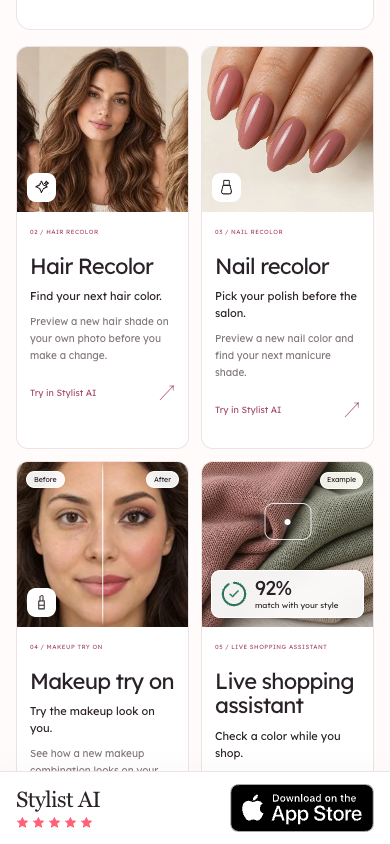
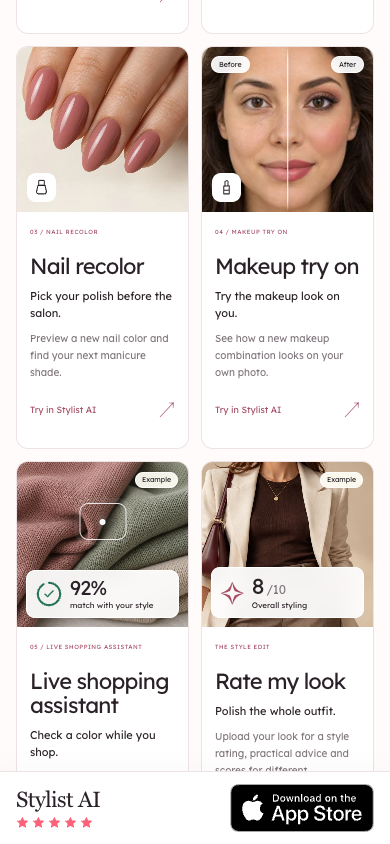
Use AI outfit imagery in a matching color-combos card and refine hero copy

diff --git a/stylist_ai/landing/v2/04-season-spectrum/index.html b/stylist_ai/landing/v2/04-season-spectrum/index.html
@@ -1,18 +1,3 @@
 <!doctype html><html lang="en"><head>
-<meta charset="utf-8"><meta name="viewport" content="width=device-width,initial-scale=1,viewport-fit=cover"><meta name="theme-color" content="#FFFBFA"><title>Find your color season — Stylist AI</title><meta name="description" content="Discover your color season and palette. Try hair and makeup looks, recolor nails, and take your palette shopping with Stylist AI for iPhone."><meta property="og:title" content="Your season. Your palette. Stylist AI."><meta property="og:description" content="Your Color Analysis, color combos, beauty tools, outfit advice & live shopping. Find your colors with Stylist AI."><meta property="og:type" content="website"><meta property="og:image" content="https://bestme.mobi/stylist_ai/landing/v2/assets/social-spectrum.jpg"><link rel="icon" href="../assets/icon.png"><link rel="stylesheet" href="../styles.css?v=2"><script src="../app.js?v=3" defer></script><link rel="stylesheet" href="./spectrum.css?v=6"></head>
-<body class="spectrum" data-variant="04-season-spectrum" id="top"><a class="skip" href="#main">Skip to content</a><header class="site-header container"><a class="brand" href="#top" aria-label="Stylist AI home"><img src="../assets/icon.png" width="28" height="28" alt=""><span>stylist <b>AI</b></span></a><span class="header-caption">COLOR ANALYSIS FOR iPHONE</span></header><main id="main"><section class="hero container" aria-label="Discover your color season"><div class="hero-intro"><h1>What’s your<br><em>color season?</em></h1><p>AI color analysis. Your season, personal palette, personal shopping advice.</p></div><div class="hero-proof"><div class="result-card"><div class="spectrum-pair"><div class="color-halo"><div class="face-photo"><img class="portrait" src="../assets/winter-model.jpg" width="834" height="1482" alt="Stylist AI ad model with subtle glowing facial landmark dots" fetchpriority="high"><img class="mesh" src="../assets/winter-landmarks.svg" width="834" height="1482" alt="" aria-hidden="true"></div></div><div class="season-result"><p class="micro">EXAMPLE COLOR SEASON</p><strong data-season-result>True Winter</strong><p class="traits"><span>Cool</span><span>Clear</span><span>High contrast</span></p></div></div><div class="palette hero-palette" data-first-palette aria-label="Sample True Winter color palette"><div class="color" style="--color:#F25A8D" title="Pink"><i></i></div><div class="color" style="--color:#9C1F50" title="Berry"><i></i></div><div class="color" style="--color:#7F3C7D" title="Orchid"><i></i></div><div class="color" style="--color:#4E1C60" title="Plum"><i></i></div><div class="color" style="--color:#17A59D" title="Teal"><i></i></div><div class="color" style="--color:#3AB3D1" title="Aqua"><i></i></div><div class="color" style="--color:#3C55A5" title="Cobalt"><i></i></div><div class="color" style="--color:#003A6E" title="Navy"><i></i></div></div><div class="season-tabs" role="group" aria-label="Preview example seasonal palettes"><button type="button" data-season="spring" aria-pressed="false">Spring</button><button type="button" data-season="summer" aria-pressed="false">Summer</button><button type="button" data-season="autumn" aria-pressed="false">Autumn</button><button type="button" data-season="winter" aria-pressed="true">Winter</button></div><span class="sample-disclaimer">Example palette. Find your own colors in the app.</span></div></div></section><nav class="feature-nav container" aria-label="Stylist AI features"><a href="#passport" aria-label="See Your Color Analysis"><svg viewBox="0 0 24 24" fill="none" stroke="currentColor" stroke-width="1.5" stroke-linecap="round" stroke-linejoin="round" aria-hidden="true"><rect x="5" y="3" width="14" height="18" rx="3"/><path d="M9 8h6M9 12h6M9 16h3"/></svg><span>Your Color Analysis</span></a><a href="#try-on" aria-label="See Hair Recolor"><svg viewBox="0 0 24 24" fill="none" stroke="currentColor" stroke-width="1.5" stroke-linecap="round" stroke-linejoin="round" aria-hidden="true"><path d="m12 3 2.6 5.4L20 11l-5.4 2.6L12 19l-2.6-5.4L4 11l5.4-2.6Z"/><path d="m19 3 1 2 2 1-2 1-1 2-1-2-2-1 2-1Z"/></svg><span>Hair Recolor</span></a><a href="#nails" aria-label="See Nail recolor"><svg viewBox="0 0 24 24" fill="none" stroke="currentColor" stroke-width="1.5" stroke-linecap="round" stroke-linejoin="round" aria-hidden="true"><rect x="8" y="2" width="8" height="7" rx="1"/><path d="M7 9h10l2 9a3 3 0 0 1-3 3H8a3 3 0 0 1-3-3Z"/></svg><span>Nail recolor</span></a><a href="#makeup" aria-label="See Makeup try on"><svg viewBox="0 0 24 24" fill="none" stroke="currentColor" stroke-width="1.5" stroke-linecap="round" stroke-linejoin="round" aria-hidden="true"><path d="M8 10h8v11H8zM10 10V4c0-1 4-3 4-1v7M8 16h8"/></svg><span>Makeup try on</span></a><a href="#shopping" aria-label="See Live shopping assistant"><svg viewBox="0 0 24 24" fill="none" stroke="currentColor" stroke-width="1.5" stroke-linecap="round" stroke-linejoin="round" aria-hidden="true"><path d="M5 8h14l1 13H4ZM9 8V6a3 3 0 0 1 6 0v2"/></svg><span>Live shopping assistant</span></a></nav><nav class="feature-shortcuts container" aria-label="More styling tools"><a href="#combos" aria-label="See Color combos"><svg viewBox="0 0 24 24" fill="none" stroke="currentColor" stroke-width="1.4" stroke-linecap="round" stroke-linejoin="round" aria-hidden="true"><rect x="3" y="5" width="8" height="14" rx="2"/><rect x="13" y="5" width="8" height="14" rx="2"/></svg><span>Color combos</span></a><a href="#rate-look" aria-label="See Rate my look"><svg viewBox="0 0 24 24" fill="none" stroke="currentColor" stroke-width="1.4" stroke-linecap="round" stroke-linejoin="round" aria-hidden="true"><path d="m12 3 2.8 5.8 6.4.9-4.6 4.5 1.1 6.4-5.7-3-5.7 3 1.1-6.4-4.6-4.5 6.4-.9Z"/></svg><span>Rate my look</span></a><a href="#outfit-match" aria-label="See Outfit match"><svg viewBox="0 0 24 24" fill="none" stroke="currentColor" stroke-width="1.4" stroke-linecap="round" stroke-linejoin="round" aria-hidden="true"><path d="m8 4 4 2 4-2 6 5-4 4-2-2v10H8V11l-2 2-4-4Z"/></svg><span>Outfit match</span></a></nav><section class="features container" id="features"><div class="section-heading"><span class="micro">YOUR COLORS, IN EVERYDAY LIFE.</span><h2>See what you can do.</h2></div><article id="passport" class="passport-feature" data-feature="passport"><div class="passport-feature-copy"><p class="number">01 / YOUR COLOR ANALYSIS</p><h3>Your Color Analysis</h3><p class="benefit">Your season. Your undertone. Your palette.</p><p>Keep your color profile close, from getting ready to choosing your next outfit.</p><ul><li>Your seasonal color type</li><li>Your personal palette</li><li>Color guidance for your look</li></ul></div><div class="passport-feature-art"><span class="micro">YOUR COLOR ANALYSIS · EXAMPLE</span><strong>True Winter</strong><div class="attribute-row"><span>Cool undertone</span><span>High contrast</span></div><div class="palette " aria-label="Sample True Winter color palette"><div class="color" style="--color:#F25A8D" title="Pink"><i></i><span>Pink</span></div><div class="color" style="--color:#9C1F50" title="Berry"><i></i><span>Berry</span></div><div class="color" style="--color:#7F3C7D" title="Orchid"><i></i><span>Orchid</span></div><div class="color" style="--color:#4E1C60" title="Plum"><i></i><span>Plum</span></div><div class="color" style="--color:#17A59D" title="Teal"><i></i><span>Teal</span></div><div class="color" style="--color:#3AB3D1" title="Aqua"><i></i><span>Aqua</span></div><div class="color" style="--color:#3C55A5" title="Cobalt"><i></i><span>Cobalt</span></div><div class="color" style="--color:#003A6E" title="Navy"><i></i><span>Navy</span></div></div></div></article><article class="combo-section combo-feature" id="combos" data-feature="combos" aria-labelledby="combo-title"><div class="combo-heading"><div><p class="micro">MAKE YOUR PALETTE WORK FOR YOU</p><h3 id="combo-title">Best color combos</h3></div><span class="combo-season">True Winter · examples</span></div><p class="combo-description">Discover colors that work together, with outfit pairings and tips on how to wear them.</p><div class="combo-grid"><a class="combo-card" href="https://apps.apple.com/app/id6739435502" target="_top" data-download data-placement="combo-1" aria-label="Try Blue + ice and see how to wear it in Stylist AI"><svg viewBox="0 0 180 280" class="combo-garments" aria-hidden="true">
-<ellipse cx="90" cy="267" rx="53" ry="5" fill="#27231f" opacity=".045"/>
-<g fill="#E9ECF8" stroke="#27231f33" stroke-width=".8"><path d="M64 119H116Q120 131 125 145L137 258L100 262L90 165L80 262L43 258L55 145Q60 131 64 119Z"/><path d="M64 119H116L119 131H61Z"/></g>
-<path d="M63 135L58 156L70 147M117 135L122 156L110 147M90 131V162M74 134L63 256M106 134L117 256M45 252L79 256M101 256L135 252M85 131V153Q89 156 93 153M71 120V130M109 120V130" fill="none" stroke="#27231f2e" stroke-width=".8"/>
-<g fill="#006DAF" stroke="#27231f33" stroke-width=".8"><path d="M72 24L55 29Q41 32 35 48L21 86Q17 99 27 105L40 109Q48 108 51 98L60 70Q63 94 66 103L63 120Q90 125 117 120L114 103Q117 94 120 70L129 98Q132 108 140 109L153 105Q163 99 159 86L145 48Q139 32 125 29L108 24Q106 48 90 50Q74 48 72 24Z"/><path d="M26 101L43 106L41 114L24 109ZM137 106L154 101L156 109L139 114Z"/></g>
-<path d="M72 24Q74 48 90 50Q106 48 108 24M55 34Q63 48 60 70M125 34Q117 48 120 70M44 48L32 94M136 48L148 94M69 83L76 114M111 83L104 114M65 116Q90 121 115 116" fill="none" stroke="#27231f2e" stroke-width=".8"/><circle cx="90" cy="125" r="1.4" fill="#27231f4d"/></svg><div class="combo-pair" aria-hidden="true"><i style="--shade:#006DAF"></i><i style="--shade:#E9ECF8"></i></div><h4>Blue + ice</h4><p class="combo-shades">Surf the Web<br>+ Icy White</p><span class="combo-action">How to wear it <span aria-hidden="true">↗</span></span></a><a class="combo-card" href="https://apps.apple.com/app/id6739435502" target="_top" data-download data-placement="combo-2" aria-label="Try Pink + slate and see how to wear it in Stylist AI"><svg viewBox="0 0 180 280" class="combo-garments" aria-hidden="true">
-<ellipse cx="90" cy="267" rx="53" ry="5" fill="#27231f" opacity=".045"/>
-<g fill="#2C2C2E" stroke="#27231f33" stroke-width=".8"><path d="M64 119H116Q120 131 125 145L137 258L100 262L90 165L80 262L43 258L55 145Q60 131 64 119Z"/><path d="M64 119H116L119 131H61Z"/></g>
-<path d="M63 135L58 156L70 147M117 135L122 156L110 147M90 131V162M74 134L63 256M106 134L117 256M45 252L79 256M101 256L135 252M85 131V153Q89 156 93 153M71 120V130M109 120V130" fill="none" stroke="#27231f2e" stroke-width=".8"/>
-<g fill="#F25A8D" stroke="#27231f33" stroke-width=".8"><path d="M72 24L55 29Q41 32 35 48L21 86Q17 99 27 105L40 109Q48 108 51 98L60 70Q63 94 66 103L63 120Q90 125 117 120L114 103Q117 94 120 70L129 98Q132 108 140 109L153 105Q163 99 159 86L145 48Q139 32 125 29L108 24Q106 48 90 50Q74 48 72 24Z"/><path d="M26 101L43 106L41 114L24 109ZM137 106L154 101L156 109L139 114Z"/></g>
-<path d="M72 24Q74 48 90 50Q106 48 108 24M55 34Q63 48 60 70M125 34Q117 48 120 70M44 48L32 94M136 48L148 94M69 83L76 114M111 83L104 114M65 116Q90 121 115 116" fill="none" stroke="#27231f2e" stroke-width=".8"/><circle cx="90" cy="125" r="1.4" fill="#27231f4d"/></svg><div class="combo-pair" aria-hidden="true"><i style="--shade:#F25A8D"></i><i style="--shade:#2C2C2E"></i></div><h4>Pink + slate</h4><p class="combo-shades">Strawberry Moon<br>+ Dark Slate</p><span class="combo-action">How to wear it <span aria-hidden="true">↗</span></span></a><a class="combo-card" href="https://apps.apple.com/app/id6739435502" target="_top" data-download data-placement="combo-3" aria-label="Try Lilac + violet and see how to wear it in Stylist AI"><svg viewBox="0 0 180 280" class="combo-garments" aria-hidden="true">
-<ellipse cx="90" cy="267" rx="53" ry="5" fill="#27231f" opacity=".045"/>
-<g fill="#4E1C60" stroke="#27231f33" stroke-width=".8"><path d="M64 119H116Q120 131 125 145L137 258L100 262L90 165L80 262L43 258L55 145Q60 131 64 119Z"/><path d="M64 119H116L119 131H61Z"/></g>
-<path d="M63 135L58 156L70 147M117 135L122 156L110 147M90 131V162M74 134L63 256M106 134L117 256M45 252L79 256M101 256L135 252M85 131V153Q89 156 93 153M71 120V130M109 120V130" fill="none" stroke="#27231f2e" stroke-width=".8"/>
-<g fill="#D6A8C8" stroke="#27231f33" stroke-width=".8"><path d="M72 24L55 29Q41 32 35 48L21 86Q17 99 27 105L40 109Q48 108 51 98L60 70Q63 94 66 103L63 120Q90 125 117 120L114 103Q117 94 120 70L129 98Q132 108 140 109L153 105Q163 99 159 86L145 48Q139 32 125 29L108 24Q106 48 90 50Q74 48 72 24Z"/><path d="M26 101L43 106L41 114L24 109ZM137 106L154 101L156 109L139 114Z"/></g>
-<path d="M72 24Q74 48 90 50Q106 48 108 24M55 34Q63 48 60 70M125 34Q117 48 120 70M44 48L32 94M136 48L148 94M69 83L76 114M111 83L104 114M65 116Q90 121 115 116" fill="none" stroke="#27231f2e" stroke-width=".8"/><circle cx="90" cy="125" r="1.4" fill="#27231f4d"/></svg><div class="combo-pair" aria-hidden="true"><i style="--shade:#D6A8C8"></i><i style="--shade:#4E1C60"></i></div><h4>Lilac + violet</h4><p class="combo-shades">Lilac Chiffon<br>+ Persian Jewel</p><span class="combo-action">How to wear it <span aria-hidden="true">↗</span></span></a></div></article><div class="feature-grid"><article class="feature-card" id="try-on" data-feature="try-on"><div class="feature-image"><img src="../assets/hair.webp" width="720" height="900" loading="lazy" alt="Hair Recolor example"><span class="feature-image-icon"><svg viewBox="0 0 24 24" fill="none" stroke="currentColor" stroke-width="1.5" stroke-linecap="round" stroke-linejoin="round" aria-hidden="true"><path d="m12 3 2.6 5.4L20 11l-5.4 2.6L12 19l-2.6-5.4L4 11l5.4-2.6Z"/><path d="m19 3 1 2 2 1-2 1-1 2-1-2-2-1 2-1Z"/></svg></span></div><div class="feature-copy"><p class="number">02 / HAIR RECOLOR</p><h3>Hair Recolor</h3><p class="benefit">Find your next hair color.</p><p>Preview a new hair shade on your own photo before you make a change.</p><a href="https://apps.apple.com/app/id6739435502" target="_top" data-download data-placement="try-on">Try in Stylist AI <span aria-hidden="true">↗</span></a></div></article><article class="feature-card" id="nails" data-feature="nails"><div class="feature-image"><img src="../assets/nails.webp" width="720" height="900" loading="lazy" alt="Nail recolor example"><span class="feature-image-icon"><svg viewBox="0 0 24 24" fill="none" stroke="currentColor" stroke-width="1.5" stroke-linecap="round" stroke-linejoin="round" aria-hidden="true"><rect x="8" y="2" width="8" height="7" rx="1"/><path d="M7 9h10l2 9a3 3 0 0 1-3 3H8a3 3 0 0 1-3-3Z"/></svg></span></div><div class="feature-copy"><p class="number">03 / NAIL RECOLOR</p><h3>Nail recolor</h3><p class="benefit">Pick your polish before the salon.</p><p>Preview a new nail color and find your next manicure shade.</p><a href="https://apps.apple.com/app/id6739435502" target="_top" data-download data-placement="nails">Try in Stylist AI <span aria-hidden="true">↗</span></a></div></article><article class="feature-card" id="makeup" data-feature="makeup"><div class="feature-image"><img src="../assets/makeup-try-on.webp" width="720" height="900" loading="lazy" alt="Before and after makeup try on example"><span class="feature-image-icon"><svg viewBox="0 0 24 24" fill="none" stroke="currentColor" stroke-width="1.5" stroke-linecap="round" stroke-linejoin="round" aria-hidden="true"><path d="M8 10h8v11H8zM10 10V4c0-1 4-3 4-1v7M8 16h8"/></svg></span><span class="makeup-divider" aria-hidden="true"></span><span class="makeup-label before">Before</span><span class="makeup-label after">After</span></div><div class="feature-copy"><p class="number">04 / MAKEUP TRY ON</p><h3>Makeup try on</h3><p class="benefit">Try the makeup look on you.</p><p>See how a new makeup combination looks on your own photo.</p><a href="https://apps.apple.com/app/id6739435502" target="_top" data-download data-placement="makeup">Try in Stylist AI <span aria-hidden="true">↗</span></a></div></article><article class="feature-card" id="shopping" data-feature="shopping"><div class="feature-image"><img src="../assets/shopping-fabric.jpg" width="720" height="900" loading="lazy" alt="Live shopping assistant example"><span class="shopping-scan" aria-hidden="true"><i></i></span><span class="art-example">Example</span><div class="match-overlay"><svg viewBox="0 0 40 40" aria-hidden="true"><circle cx="20" cy="20" r="16" fill="none" stroke="#e8efeb" stroke-width="3"/><circle cx="20" cy="20" r="16" fill="none" stroke="#28755c" stroke-width="3" stroke-linecap="round" stroke-dasharray="92 100" pathLength="100" transform="rotate(-90 20 20)"/><path d="m14 20 4 4 8-9" fill="none" stroke="#28755c" stroke-width="2" stroke-linecap="round" stroke-linejoin="round"/></svg><span><strong>92%</strong><small>match with your style</small></span></div></div><div class="feature-copy"><p class="number">05 / LIVE SHOPPING ASSISTANT</p><h3>Live shopping assistant</h3><p class="benefit">Check a color while you shop.</p><p>Point your camera at a shade and compare it with your personal palette.</p><a href="https://apps.apple.com/app/id6739435502" target="_top" data-download data-placement="shopping">Try in Stylist AI <span aria-hidden="true">↗</span></a></div></article><article class="feature-card" id="rate-look" data-feature="rate-look"><div class="feature-image"><img src="../assets/rate-look.jpg" loading="lazy" alt="Rate my look preview"><span class="art-example">Example</span><div class="look-rating"><span class="rating-star" aria-hidden="true">✧</span><span><strong>8<small>/10</small></strong><small>Overall styling</small></span></div></div><div class="feature-copy"><p class="number">THE STYLE EDIT</p><h3>Rate my look</h3><p class="benefit">Polish the whole outfit.</p><p>Upload your look for a style rating, practical advice and scores for different occasions.</p><a href="https://apps.apple.com/app/id6739435502" target="_top" data-download data-placement="rate-look">Try in Stylist AI <span aria-hidden="true">↗</span></a></div></article><article class="feature-card" id="outfit-match" data-feature="outfit-match"><div class="feature-image"><img src="../assets/outfit.webp" loading="lazy" alt="Will that outfit suit me? preview"><span class="art-example">Example</span><div class="match-overlay"><svg viewBox="0 0 40 40" aria-hidden="true"><circle cx="20" cy="20" r="16" fill="none" stroke="#e8efeb" stroke-width="3"/><circle cx="20" cy="20" r="16" fill="none" stroke="#28755c" stroke-width="3" stroke-linecap="round" stroke-dasharray="94 100" pathLength="100" transform="rotate(-90 20 20)"/><path d="m14 20 4 4 8-9" fill="none" stroke="#28755c" stroke-width="2" stroke-linecap="round" stroke-linejoin="round"/></svg><span><strong>94%</strong><small>you will shine with it</small></span></div></div><div class="feature-copy"><p class="number">OUTFIT MATCH</p><h3>Will that outfit suit me?</h3><p class="benefit">Check it before you buy it.</p><p>Upload an outfit photo to see how its colors work with your season and personal palette.</p><a href="https://apps.apple.com/app/id6739435502" target="_top" data-download data-placement="outfit-match">Try in Stylist AI <span aria-hidden="true">↗</span></a></div></article></div></section><section class="how container"><div><span class="micro">START WITH A SELFIE</span><h2>Your colors, in three steps.</h2></div><ol><li><b>01</b><span>Download Stylist AI</span></li><li><b>02</b><span>Add a clear photo in natural light</span></li><li><b>03</b><span>Discover your season & try your colors</span></li></ol></section><section class="closing container"><p class="micro">YOUR SEASON IS JUST THE START</p><h2>Find your colors.<br>Try them on you.</h2><p>Color analysis, beauty try-on & shopping — in one app.</p></section></main><footer class="container"><a class="brand" href="#top" aria-label="Stylist AI home"><img src="../assets/icon.png" width="28" height="28" alt=""><span>stylist <b>AI</b></span></a><div class="legal-links"><a href="https://bestme.mobi/stylist-ai-privacy-policy.html">Privacy</a><a href="https://bestme.mobi/stylist-ai-terms-of-use.html">Terms</a><a href="https://bestme.mobi/support.html">Support</a></div><p>Example imagery, palettes and scores. Results vary. © Aleksandr Korenev.</p><p>Apple and the Apple logo are trademarks of Apple Inc. App Store is a service mark of Apple Inc.</p></footer><aside class="download-dock" aria-label="Download Stylist AI"><div class="dock-inner"><div class="dock-copy"><strong>Stylist AI</strong><span class="dock-stars" aria-hidden="true"><svg viewBox="0 0 20 20"><path d="m10 1 2.7 5.7 6.3.9-4.5 4.4 1.1 6.2-5.6-3-5.6 3 1.1-6.2L1 7.6l6.3-.9Z"/></svg><svg viewBox="0 0 20 20"><path d="m10 1 2.7 5.7 6.3.9-4.5 4.4 1.1 6.2-5.6-3-5.6 3 1.1-6.2L1 7.6l6.3-.9Z"/></svg><svg viewBox="0 0 20 20"><path d="m10 1 2.7 5.7 6.3.9-4.5 4.4 1.1 6.2-5.6-3-5.6 3 1.1-6.2L1 7.6l6.3-.9Z"/></svg><svg viewBox="0 0 20 20"><path d="m10 1 2.7 5.7 6.3.9-4.5 4.4 1.1 6.2-5.6-3-5.6 3 1.1-6.2L1 7.6l6.3-.9Z"/></svg><svg viewBox="0 0 20 20"><path d="m10 1 2.7 5.7 6.3.9-4.5 4.4 1.1 6.2-5.6-3-5.6 3 1.1-6.2L1 7.6l6.3-.9Z"/></svg></span></div><a class="app-store" href="https://apps.apple.com/app/id6739435502" target="_top" data-download data-placement="sticky" aria-label="Download Stylist AI on the App Store"><img src="../assets/app-store.svg" width="150" height="50" alt="Download on the App Store"></a></div></aside></body></html>
+<meta charset="utf-8"><meta name="viewport" content="width=device-width,initial-scale=1,viewport-fit=cover"><meta name="theme-color" content="#FFFBFA"><title>Find your color season — Stylist AI</title><meta name="description" content="Discover your color season and palette. Try hair and makeup looks, recolor nails, and take your palette shopping with Stylist AI for iPhone."><meta property="og:title" content="Your season. Your palette. Stylist AI."><meta property="og:description" content="Your Color Analysis, color combos, beauty tools, outfit advice & live shopping. Find your colors with Stylist AI."><meta property="og:type" content="website"><meta property="og:image" content="https://bestme.mobi/stylist_ai/landing/v2/assets/social-spectrum.jpg"><link rel="icon" href="../assets/icon.png"><link rel="stylesheet" href="../styles.css?v=2"><script src="../app.js?v=3" defer></script><link rel="stylesheet" href="./spectrum.css?v=7"></head>
+<body class="spectrum" data-variant="04-season-spectrum" id="top"><a class="skip" href="#main">Skip to content</a><header class="site-header container"><a class="brand" href="#top" aria-label="Stylist AI home"><img src="../assets/icon.png" width="28" height="28" alt=""><span>stylist <b>AI</b></span></a><span class="header-caption">COLOR ANALYSIS FOR iPHONE</span></header><main id="main"><section class="hero container" aria-label="Discover your color season"><div class="hero-intro"><h1>What’s your<br><em>color season?</em></h1><p>AI color analysis. Your color season, best palette, personal shopping advice.</p></div><div class="hero-proof"><div class="result-card"><div class="spectrum-pair"><div class="color-halo"><div class="face-photo"><img class="portrait" src="../assets/winter-model.jpg" width="834" height="1482" alt="Stylist AI ad model with subtle glowing facial landmark dots" fetchpriority="high"><img class="mesh" src="../assets/winter-landmarks.svg" width="834" height="1482" alt="" aria-hidden="true"></div></div><div class="season-result"><p class="micro">EXAMPLE COLOR SEASON</p><strong data-season-result>True Winter</strong><p class="traits"><span>Cool</span><span>Clear</span><span>High contrast</span></p></div></div><div class="palette hero-palette" data-first-palette aria-label="Sample True Winter color palette"><div class="color" style="--color:#F25A8D" title="Pink"><i></i></div><div class="color" style="--color:#9C1F50" title="Berry"><i></i></div><div class="color" style="--color:#7F3C7D" title="Orchid"><i></i></div><div class="color" style="--color:#4E1C60" title="Plum"><i></i></div><div class="color" style="--color:#17A59D" title="Teal"><i></i></div><div class="color" style="--color:#3AB3D1" title="Aqua"><i></i></div><div class="color" style="--color:#3C55A5" title="Cobalt"><i></i></div><div class="color" style="--color:#003A6E" title="Navy"><i></i></div></div><div class="season-tabs" role="group" aria-label="Preview example seasonal palettes"><button type="button" data-season="spring" aria-pressed="false">Spring</button><button type="button" data-season="summer" aria-pressed="false">Summer</button><button type="button" data-season="autumn" aria-pressed="false">Autumn</button><button type="button" data-season="winter" aria-pressed="true">Winter</button></div><span class="sample-disclaimer">Example palette. Find your own colors in the app.</span></div></div></section><nav class="feature-nav container" aria-label="Stylist AI features"><a href="#passport" aria-label="See Your Color Analysis"><svg viewBox="0 0 24 24" fill="none" stroke="currentColor" stroke-width="1.5" stroke-linecap="round" stroke-linejoin="round" aria-hidden="true"><rect x="5" y="3" width="14" height="18" rx="3"/><path d="M9 8h6M9 12h6M9 16h3"/></svg><span>Your Color Analysis</span></a><a href="#try-on" aria-label="See Hair Recolor"><svg viewBox="0 0 24 24" fill="none" stroke="currentColor" stroke-width="1.5" stroke-linecap="round" stroke-linejoin="round" aria-hidden="true"><path d="m12 3 2.6 5.4L20 11l-5.4 2.6L12 19l-2.6-5.4L4 11l5.4-2.6Z"/><path d="m19 3 1 2 2 1-2 1-1 2-1-2-2-1 2-1Z"/></svg><span>Hair Recolor</span></a><a href="#nails" aria-label="See Nail recolor"><svg viewBox="0 0 24 24" fill="none" stroke="currentColor" stroke-width="1.5" stroke-linecap="round" stroke-linejoin="round" aria-hidden="true"><rect x="8" y="2" width="8" height="7" rx="1"/><path d="M7 9h10l2 9a3 3 0 0 1-3 3H8a3 3 0 0 1-3-3Z"/></svg><span>Nail recolor</span></a><a href="#makeup" aria-label="See Makeup try on"><svg viewBox="0 0 24 24" fill="none" stroke="currentColor" stroke-width="1.5" stroke-linecap="round" stroke-linejoin="round" aria-hidden="true"><path d="M8 10h8v11H8zM10 10V4c0-1 4-3 4-1v7M8 16h8"/></svg><span>Makeup try on</span></a><a href="#shopping" aria-label="See Live shopping assistant"><svg viewBox="0 0 24 24" fill="none" stroke="currentColor" stroke-width="1.5" stroke-linecap="round" stroke-linejoin="round" aria-hidden="true"><path d="M5 8h14l1 13H4ZM9 8V6a3 3 0 0 1 6 0v2"/></svg><span>Live shopping assistant</span></a></nav><nav class="feature-shortcuts container" aria-label="More styling tools"><a href="#combos" aria-label="See Color combos"><svg viewBox="0 0 24 24" fill="none" stroke="currentColor" stroke-width="1.4" stroke-linecap="round" stroke-linejoin="round" aria-hidden="true"><rect x="3" y="5" width="8" height="14" rx="2"/><rect x="13" y="5" width="8" height="14" rx="2"/></svg><span>Color combos</span></a><a href="#rate-look" aria-label="See Rate my look"><svg viewBox="0 0 24 24" fill="none" stroke="currentColor" stroke-width="1.4" stroke-linecap="round" stroke-linejoin="round" aria-hidden="true"><path d="m12 3 2.8 5.8 6.4.9-4.6 4.5 1.1 6.4-5.7-3-5.7 3 1.1-6.4-4.6-4.5 6.4-.9Z"/></svg><span>Rate my look</span></a><a href="#outfit-match" aria-label="See Outfit match"><svg viewBox="0 0 24 24" fill="none" stroke="currentColor" stroke-width="1.4" stroke-linecap="round" stroke-linejoin="round" aria-hidden="true"><path d="m8 4 4 2 4-2 6 5-4 4-2-2v10H8V11l-2 2-4-4Z"/></svg><span>Outfit match</span></a></nav><section class="features container" id="features"><div class="section-heading"><span class="micro">YOUR COLORS, IN EVERYDAY LIFE.</span><h2>See what you can do.</h2></div><article id="passport" class="passport-feature" data-feature="passport"><div class="passport-feature-copy"><p class="number">01 / YOUR COLOR ANALYSIS</p><h3>Your Color Analysis</h3><p class="benefit">Your season. Your undertone. Your palette.</p><p>Keep your color profile close, from getting ready to choosing your next outfit.</p><ul><li>Your seasonal color type</li><li>Your personal palette</li><li>Color guidance for your look</li></ul></div><div class="passport-feature-art"><span class="micro">YOUR COLOR ANALYSIS · EXAMPLE</span><strong>True Winter</strong><div class="attribute-row"><span>Cool undertone</span><span>High contrast</span></div><div class="palette " aria-label="Sample True Winter color palette"><div class="color" style="--color:#F25A8D" title="Pink"><i></i><span>Pink</span></div><div class="color" style="--color:#9C1F50" title="Berry"><i></i><span>Berry</span></div><div class="color" style="--color:#7F3C7D" title="Orchid"><i></i><span>Orchid</span></div><div class="color" style="--color:#4E1C60" title="Plum"><i></i><span>Plum</span></div><div class="color" style="--color:#17A59D" title="Teal"><i></i><span>Teal</span></div><div class="color" style="--color:#3AB3D1" title="Aqua"><i></i><span>Aqua</span></div><div class="color" style="--color:#3C55A5" title="Cobalt"><i></i><span>Cobalt</span></div><div class="color" style="--color:#003A6E" title="Navy"><i></i><span>Navy</span></div></div></div></article><div class="feature-grid"><article class="feature-card" id="combos" data-feature="combos"><div class="feature-image"><img src="../assets/color-combos-ai.webp" width="960" height="960" loading="lazy" alt="Cobalt blue with icy white and raspberry pink with charcoal: two coordinated outfit color pairings"><span class="feature-image-icon"><svg viewBox="0 0 24 24" fill="none" stroke="currentColor" stroke-width="1.4" stroke-linecap="round" stroke-linejoin="round" aria-hidden="true"><rect x="3" y="5" width="8" height="14" rx="2"/><rect x="13" y="5" width="8" height="14" rx="2"/></svg></span></div><div class="feature-copy"><p class="number">COLOR COMBINATIONS</p><h3>Best color combos</h3><p class="benefit">Turn your palette into outfits.</p><p>Discover colors that work together, with outfit pairings and tips on how to wear them.</p><a href="https://apps.apple.com/app/id6739435502" target="_top" data-download data-placement="combos">Try in Stylist AI <span aria-hidden="true">↗</span></a></div></article><article class="feature-card" id="try-on" data-feature="try-on"><div class="feature-image"><img src="../assets/hair.webp" width="720" height="900" loading="lazy" alt="Hair Recolor example"><span class="feature-image-icon"><svg viewBox="0 0 24 24" fill="none" stroke="currentColor" stroke-width="1.5" stroke-linecap="round" stroke-linejoin="round" aria-hidden="true"><path d="m12 3 2.6 5.4L20 11l-5.4 2.6L12 19l-2.6-5.4L4 11l5.4-2.6Z"/><path d="m19 3 1 2 2 1-2 1-1 2-1-2-2-1 2-1Z"/></svg></span></div><div class="feature-copy"><p class="number">02 / HAIR RECOLOR</p><h3>Hair Recolor</h3><p class="benefit">Find your next hair color.</p><p>Preview a new hair shade on your own photo before you make a change.</p><a href="https://apps.apple.com/app/id6739435502" target="_top" data-download data-placement="try-on">Try in Stylist AI <span aria-hidden="true">↗</span></a></div></article><article class="feature-card" id="nails" data-feature="nails"><div class="feature-image"><img src="../assets/nails.webp" width="720" height="900" loading="lazy" alt="Nail recolor example"><span class="feature-image-icon"><svg viewBox="0 0 24 24" fill="none" stroke="currentColor" stroke-width="1.5" stroke-linecap="round" stroke-linejoin="round" aria-hidden="true"><rect x="8" y="2" width="8" height="7" rx="1"/><path d="M7 9h10l2 9a3 3 0 0 1-3 3H8a3 3 0 0 1-3-3Z"/></svg></span></div><div class="feature-copy"><p class="number">03 / NAIL RECOLOR</p><h3>Nail recolor</h3><p class="benefit">Pick your polish before the salon.</p><p>Preview a new nail color and find your next manicure shade.</p><a href="https://apps.apple.com/app/id6739435502" target="_top" data-download data-placement="nails">Try in Stylist AI <span aria-hidden="true">↗</span></a></div></article><article class="feature-card" id="makeup" data-feature="makeup"><div class="feature-image"><img src="../assets/makeup-try-on.webp" width="720" height="900" loading="lazy" alt="Before and after makeup try on example"><span class="feature-image-icon"><svg viewBox="0 0 24 24" fill="none" stroke="currentColor" stroke-width="1.5" stroke-linecap="round" stroke-linejoin="round" aria-hidden="true"><path d="M8 10h8v11H8zM10 10V4c0-1 4-3 4-1v7M8 16h8"/></svg></span><span class="makeup-divider" aria-hidden="true"></span><span class="makeup-label before">Before</span><span class="makeup-label after">After</span></div><div class="feature-copy"><p class="number">04 / MAKEUP TRY ON</p><h3>Makeup try on</h3><p class="benefit">Try the makeup look on you.</p><p>See how a new makeup combination looks on your own photo.</p><a href="https://apps.apple.com/app/id6739435502" target="_top" data-download data-placement="makeup">Try in Stylist AI <span aria-hidden="true">↗</span></a></div></article><article class="feature-card" id="shopping" data-feature="shopping"><div class="feature-image"><img src="../assets/shopping-fabric.jpg" width="720" height="900" loading="lazy" alt="Live shopping assistant example"><span class="shopping-scan" aria-hidden="true"><i></i></span><span class="art-example">Example</span><div class="match-overlay"><svg viewBox="0 0 40 40" aria-hidden="true"><circle cx="20" cy="20" r="16" fill="none" stroke="#e8efeb" stroke-width="3"/><circle cx="20" cy="20" r="16" fill="none" stroke="#28755c" stroke-width="3" stroke-linecap="round" stroke-dasharray="92 100" pathLength="100" transform="rotate(-90 20 20)"/><path d="m14 20 4 4 8-9" fill="none" stroke="#28755c" stroke-width="2" stroke-linecap="round" stroke-linejoin="round"/></svg><span><strong>92%</strong><small>match with your style</small></span></div></div><div class="feature-copy"><p class="number">05 / LIVE SHOPPING ASSISTANT</p><h3>Live shopping assistant</h3><p class="benefit">Check a color while you shop.</p><p>Point your camera at a shade and compare it with your personal palette.</p><a href="https://apps.apple.com/app/id6739435502" target="_top" data-download data-placement="shopping">Try in Stylist AI <span aria-hidden="true">↗</span></a></div></article><article class="feature-card" id="rate-look" data-feature="rate-look"><div class="feature-image"><img src="../assets/rate-look.jpg" loading="lazy" alt="Rate my look preview"><span class="art-example">Example</span><div class="look-rating"><span class="rating-star" aria-hidden="true">✧</span><span><strong>8<small>/10</small></strong><small>Overall styling</small></span></div></div><div class="feature-copy"><p class="number">THE STYLE EDIT</p><h3>Rate my look</h3><p class="benefit">Polish the whole outfit.</p><p>Upload your look for a style rating, practical advice and scores for different occasions.</p><a href="https://apps.apple.com/app/id6739435502" target="_top" data-download data-placement="rate-look">Try in Stylist AI <span aria-hidden="true">↗</span></a></div></article><article class="feature-card" id="outfit-match" data-feature="outfit-match"><div class="feature-image"><img src="../assets/outfit.webp" loading="lazy" alt="Will that outfit suit me? preview"><span class="art-example">Example</span><div class="match-overlay"><svg viewBox="0 0 40 40" aria-hidden="true"><circle cx="20" cy="20" r="16" fill="none" stroke="#e8efeb" stroke-width="3"/><circle cx="20" cy="20" r="16" fill="none" stroke="#28755c" stroke-width="3" stroke-linecap="round" stroke-dasharray="94 100" pathLength="100" transform="rotate(-90 20 20)"/><path d="m14 20 4 4 8-9" fill="none" stroke="#28755c" stroke-width="2" stroke-linecap="round" stroke-linejoin="round"/></svg><span><strong>94%</strong><small>you will shine with it</small></span></div></div><div class="feature-copy"><p class="number">OUTFIT MATCH</p><h3>Will that outfit suit me?</h3><p class="benefit">Check it before you buy it.</p><p>Upload an outfit photo to see how its colors work with your season and personal palette.</p><a href="https://apps.apple.com/app/id6739435502" target="_top" data-download data-placement="outfit-match">Try in Stylist AI <span aria-hidden="true">↗</span></a></div></article></div></section><section class="how container"><div><span class="micro">START WITH A SELFIE</span><h2>Your colors, in three steps.</h2></div><ol><li><b>01</b><span>Download Stylist AI</span></li><li><b>02</b><span>Add a clear photo in natural light</span></li><li><b>03</b><span>Discover your season & try your colors</span></li></ol></section><section class="closing container"><p class="micro">YOUR SEASON IS JUST THE START</p><h2>Find your colors.<br>Try them on you.</h2><p>Color analysis, beauty try-on & shopping — in one app.</p></section></main><footer class="container"><a class="brand" href="#top" aria-label="Stylist AI home"><img src="../assets/icon.png" width="28" height="28" alt=""><span>stylist <b>AI</b></span></a><div class="legal-links"><a href="https://bestme.mobi/stylist-ai-privacy-policy.html">Privacy</a><a href="https://bestme.mobi/stylist-ai-terms-of-use.html">Terms</a><a href="https://bestme.mobi/support.html">Support</a></div><p>Example imagery, palettes and scores. Results vary. © Aleksandr Korenev.</p><p>Apple and the Apple logo are trademarks of Apple Inc. App Store is a service mark of Apple Inc.</p></footer><aside class="download-dock" aria-label="Download Stylist AI"><div class="dock-inner"><div class="dock-copy"><strong>Stylist AI</strong><span class="dock-stars" aria-hidden="true"><svg viewBox="0 0 20 20"><path d="m10 1 2.7 5.7 6.3.9-4.5 4.4 1.1 6.2-5.6-3-5.6 3 1.1-6.2L1 7.6l6.3-.9Z"/></svg><svg viewBox="0 0 20 20"><path d="m10 1 2.7 5.7 6.3.9-4.5 4.4 1.1 6.2-5.6-3-5.6 3 1.1-6.2L1 7.6l6.3-.9Z"/></svg><svg viewBox="0 0 20 20"><path d="m10 1 2.7 5.7 6.3.9-4.5 4.4 1.1 6.2-5.6-3-5.6 3 1.1-6.2L1 7.6l6.3-.9Z"/></svg><svg viewBox="0 0 20 20"><path d="m10 1 2.7 5.7 6.3.9-4.5 4.4 1.1 6.2-5.6-3-5.6 3 1.1-6.2L1 7.6l6.3-.9Z"/></svg><svg viewBox="0 0 20 20"><path d="m10 1 2.7 5.7 6.3.9-4.5 4.4 1.1 6.2-5.6-3-5.6 3 1.1-6.2L1 7.6l6.3-.9Z"/></svg></span></div><a class="app-store" href="https://apps.apple.com/app/id6739435502" target="_top" data-download data-placement="sticky" aria-label="Download Stylist AI on the App Store"><img src="../assets/app-store.svg" width="150" height="50" alt="Download on the App Store"></a></div></aside></body></html>

diff --git a/stylist_ai/landing/v2/04-season-spectrum/spectrum.css b/stylist_ai/landing/v2/04-season-spectrum/spectrum.css
@@ -73,22 +73,8 @@
 .spectrum .look-rating strong small { font-size: 14px; color: #81777d; margin-left: 2px; }
 .spectrum #rate-look .feature-image img { object-position: 55% center; }
 .spectrum #outfit-match .feature-copy h3 { font-size: 24px; }
-.spectrum .combo-section { margin: 0 0 22px; padding: 32px; background: var(--surface); border: 1px solid var(--line); border-radius: 20px; scroll-margin-top: 24px; }
-.spectrum .combo-heading { display: flex; justify-content: space-between; align-items: end; gap: 20px; }
-.spectrum .combo-heading .micro { color: #81777d; font-size: 8px; }
-.spectrum .combo-heading h3 { font: 32px/1.2 Lexend, sans-serif; letter-spacing: -1.2px; margin-top: 9px; }
-.spectrum .combo-season { background: #fff0f2; color: #a64c65; font-size: 10px; padding: 7px 11px; border-radius: 20px; white-space: nowrap; }
-.spectrum .combo-description { font-size: 12px; color: #71656c; margin: 12px 0 18px; max-width: 620px; }
-.spectrum .combo-grid { display: grid; grid-template-columns: repeat(3, minmax(0, 1fr)); gap: 16px; }
-.spectrum .combo-card { display: flex; flex-direction: column; align-items: center; padding: 12px 14px 15px; background: #fff; border: 1px solid var(--line); border-radius: 17px; scroll-snap-align: start; }
-.spectrum .combo-card:hover { border-color: #d9adb9; background: #fffcfc; }
-.spectrum .combo-garments { width: 100%; height: 210px; display: block; }
-.spectrum .combo-pair { display: flex; gap: 4px; margin: 1px 0 10px; }
-.spectrum .combo-pair i { background: var(--shade); width: 16px; height: 16px; border-radius: 50%; border: 1px solid #29212712; }
-.spectrum .combo-card h4 { font: 23px/1.2 Georgia, serif; margin: 0; text-align: center; letter-spacing: -.5px; }
-.spectrum .combo-shades { color: #81777d; font-size: 10px; line-height: 1.6; text-align: center; margin: 8px 0 4px; }
-.spectrum .combo-action { display: flex; gap: 8px; align-items: center; justify-content: center; font-size: 10px; color: #a64c65; min-height: 36px; }
-.spectrum .combo-action span { font-size: 16px; }
+.spectrum #combos .feature-image { background: #fffbfa; }
+.spectrum #combos .feature-image img { object-fit: contain; }
 @media (max-width: 760px) {
   .spectrum .hero-intro > p { max-width: 355px; font-size: 11px; line-height: 1.6; }
   .spectrum .result-card { height: 292px; }
@@ -114,20 +100,6 @@
   .spectrum .look-rating strong small { font-size: 12px; }
   .spectrum .rating-star { font-size: 31px; }
   .spectrum #outfit-match .feature-copy h3 { font-size: 22px; }
-  .spectrum .combo-section { margin: 0 0 16px; padding: 23px; border-radius: 15px; }
-  .spectrum .combo-heading { display: block; }
-  .spectrum .combo-heading .micro { font-size: 6px; letter-spacing: .9px; }
-  .spectrum .combo-heading h3 { font-size: 26px; margin-top: 7px; }
-  .spectrum .combo-season { display: inline-block; margin-top: 10px; font-size: 8px; padding: 5px 9px; }
-  .spectrum .combo-description { font-size: 11px; margin: 10px 0 15px; line-height: 1.65; }
-  .spectrum .combo-grid { grid-template-columns: none; grid-auto-flow: column; grid-auto-columns: calc((100% - 34px) / 2); gap: 10px; overflow-x: auto; scroll-snap-type: x mandatory; scrollbar-width: thin; scrollbar-color: #e5bbc6 transparent; padding-bottom: 9px; }
-  .spectrum .combo-card { border-radius: 13px; padding: 8px 9px 9px; }
-  .spectrum .combo-garments { height: 176px; }
-  .spectrum .combo-pair { margin: 0 0 8px; }
-  .spectrum .combo-pair i { width: 12px; height: 12px; }
-  .spectrum .combo-card h4 { font-size: 17px; }
-  .spectrum .combo-shades { font-size: 8px; margin-top: 6px; }
-  .spectrum .combo-action { font-size: 8px; gap: 5px; min-height: 34px; }
 }
 @media (max-width: 360px) {
   .spectrum .feature-shortcuts a { font-size: 8px; gap: 4px; }
@@ -137,8 +109,6 @@
   .spectrum .match-overlay svg { width: 24px; height: 24px; }
   .spectrum .match-overlay strong { font-size: 18px; }
   .spectrum .match-overlay small { font-size: 7px; }
-  .spectrum .combo-garments { height: 150px; }
-  .spectrum .combo-card h4 { font-size: 16px; }
 }
 @media (max-width: 760px) and (max-height: 700px) {
   .spectrum .hero-intro > p { font-size: 10px; margin-top: 7px; }
